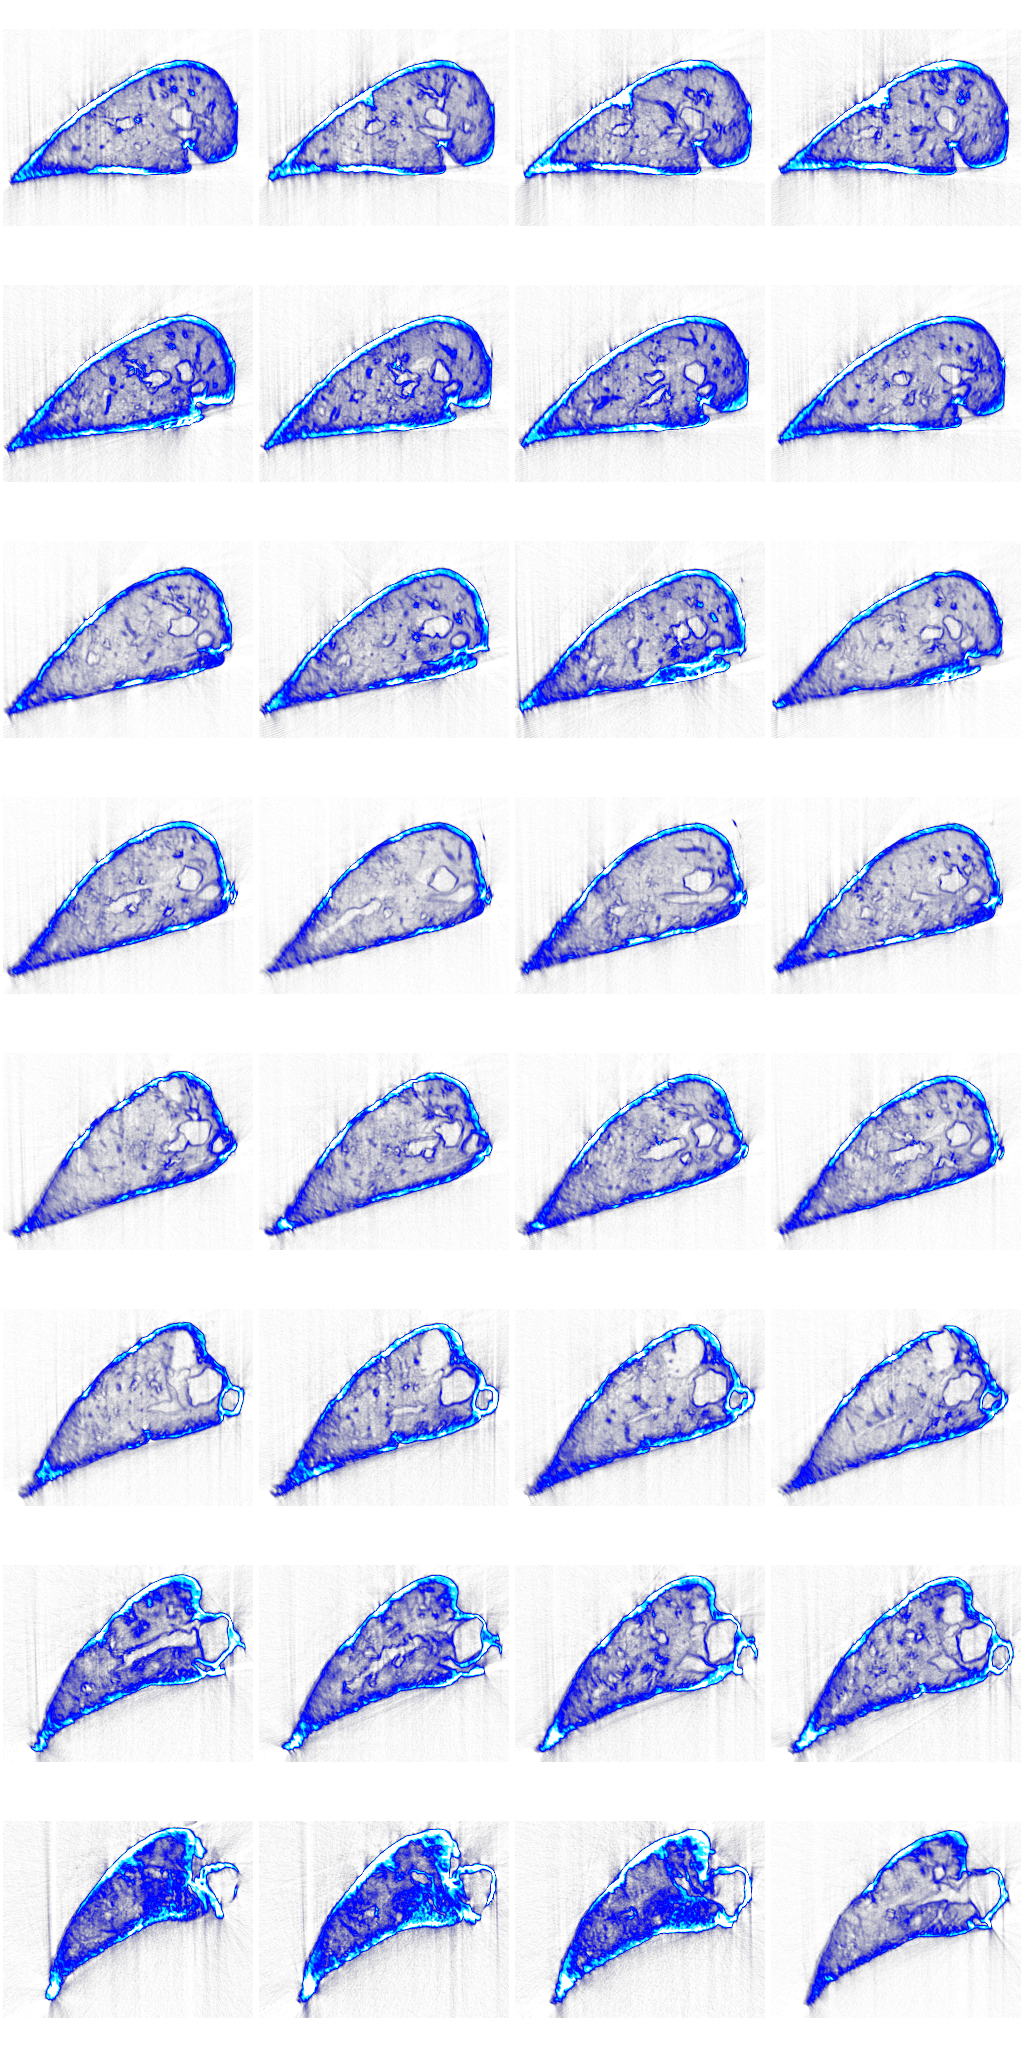
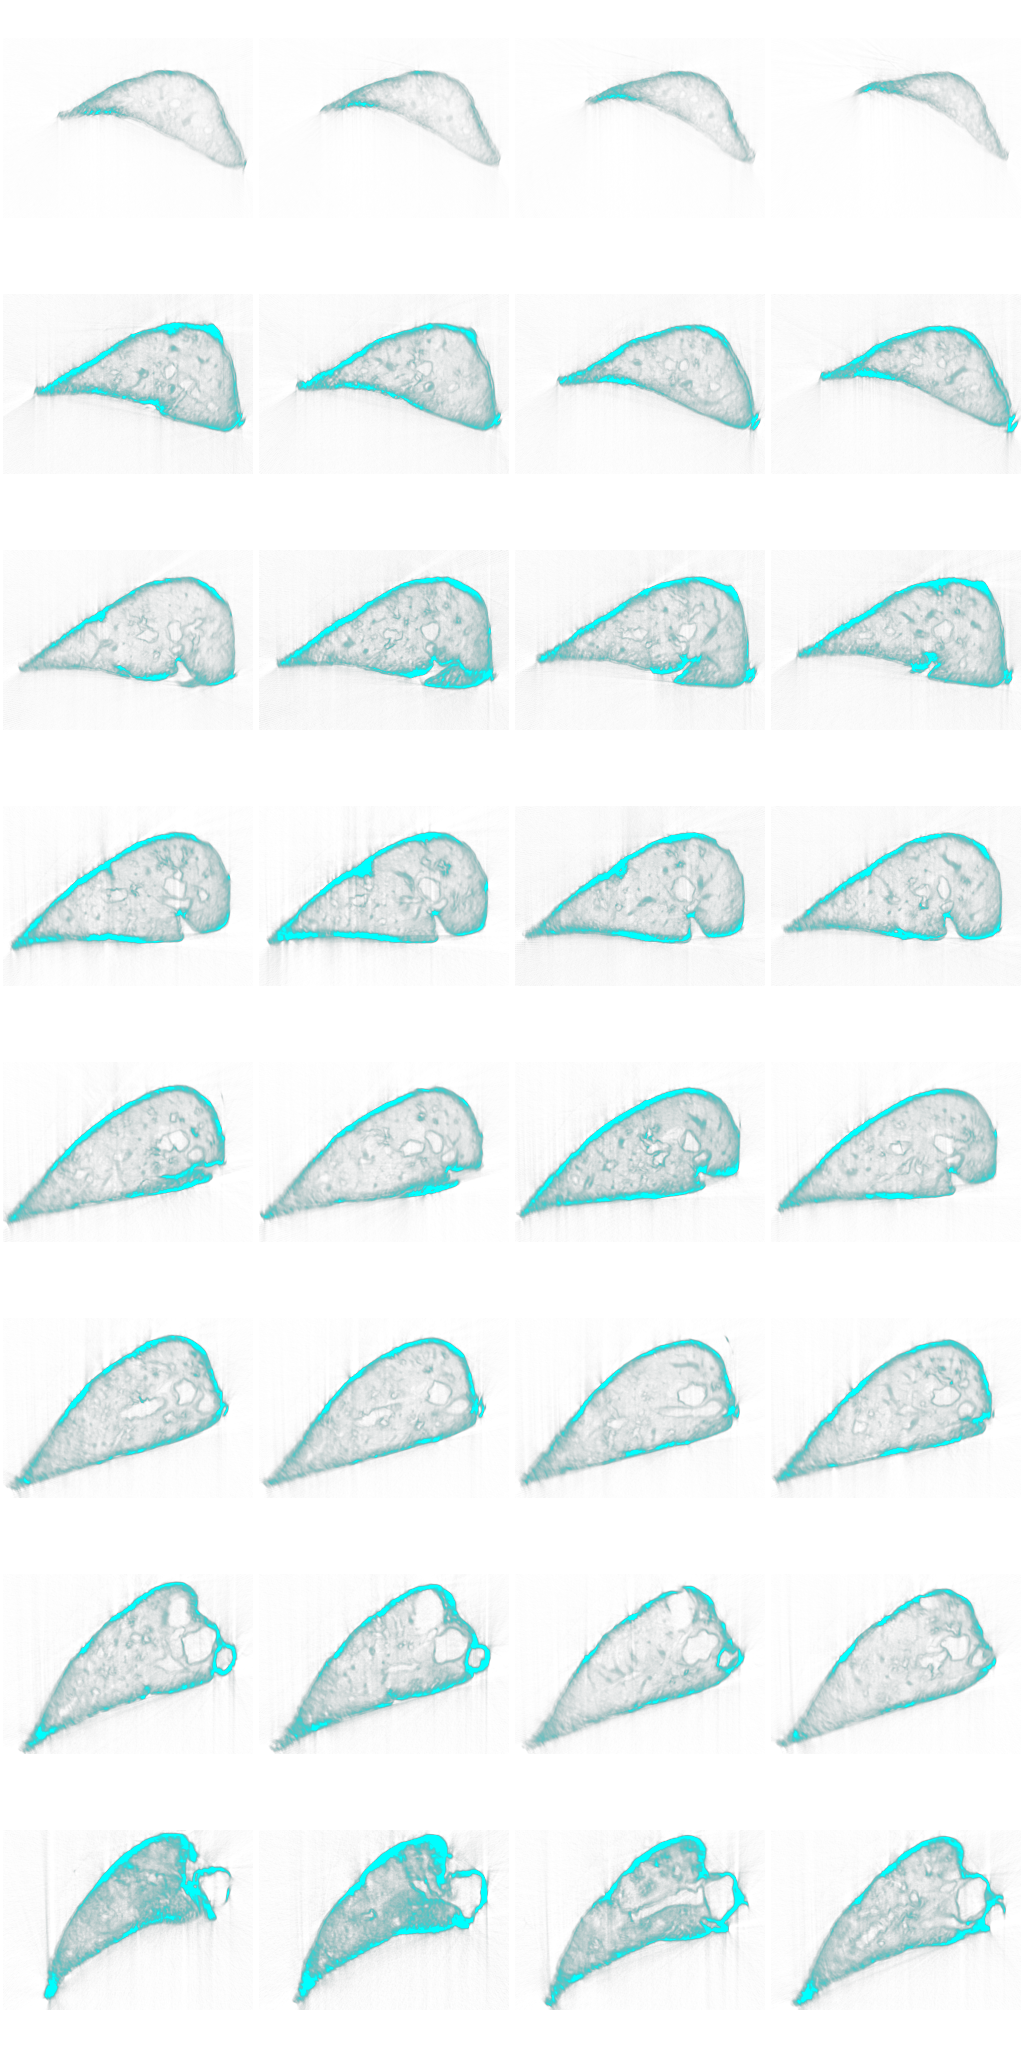
Updated large left, added right middle crop

diff --git a/lungs/right-middle-cropped/index.html b/lungs/right-middle-cropped/index.html
@@ -1,0 +1,47 @@
+<!DOCTYPE html>
+<html>
+  <head>
+    <title>right-middle-cropped - FPBioimage Viewer</title>
+    <meta charset="utf-8">
+    <meta http-equiv="Content-Type" content="text/html; charset=utf-8">
+
+    <!-- EDIT THIS JAVASCRIPT! -->
+    <script type='text/javascript'>
+      fpb = {
+        pathToImages: "./", // This is the path relative to this webpage
+        uniqueName: "right-middle-cropped", // Give this image stack a unique name for bookmarking to work correctly
+        imagePrefix: "right-middle-cropped_z", // The prefix of the image stack file names
+        numberingFormat: "0000", // eg. "000" for 000, 001, 002, 003 etc.
+        fileType: "png", // png or jpg
+        atlasMode: "true", // True if providing pre-built texture atlases. Needs to be a string.
+        voxelSize: {x: 12.9, y: 22.446, z: 12.9}, // This just needs to be a ratio of x:y:z voxel size
+        numberOfImages: 74, // Number of images in the stack
+        sliceWidth: 410, sliceHeight: 500, // The width and height of the image slices (before padding)
+        imageAlpha: "false", // True for exports from Icy for nice alpha blending
+        opacity: 6.57, // Optional rendering parameter
+        intensity: 1.43, // Optional rendering parameter
+        threshold: 0.15, // Optional rendering parameter
+        projection: 2	// Volume renderer for RGBA (0 for max intensity, 1 for RGB)
+      }
+    </script>
+    <!-- END OF REQUIRED EDITS -->
+
+    <meta name="viewport" content="width=device-width, initial-scale=1">
+    <link rel="stylesheet" href="https://fonts.googleapis.com/css?family=Roboto">
+    <style>
+      html,body,h1,h2,h3,h4,h5 {font-family: "Roboto", sans-serif}
+      body {overflow: hidden;}     
+      * {margin: 0; padding:0;}
+      #fpbDiv {width:100%; height:100%; position: absolute;}
+      #fpbDiv canvas {width: 100%; height:100%;}
+    </style>
+  </head>
+  <body>
+
+    <script type="text/javascript" src="https://fpb.ceb.cam.ac.uk/4/FPProgress.js"></script>
+
+    <!-- Put the WebGL Canvas in here-->
+    <div id="fpbDiv"></div>
+
+  </body>
+</html>

diff --git a/lungs/large-left-500/index.html b/lungs/large-left-500/index.html
@@ -14,9 +14,9 @@
         numberingFormat: "0000", // eg. "000" for 000, 001, 002, 003 etc.
         fileType: "png", // png or jpg
         atlasMode: "true", // True if providing pre-built texture atlases. Needs to be a string.
-        voxelSize: {x: 1.1340000000000001, y: 1.134517766497462, z: 1.0}, // This just needs to be a ratio of x:y:z voxel size
-        numberOfImages: 450, // Number of images in the stack
-        sliceWidth: 500, sliceHeight: 394, // The width and height of the image slices (before padding)
+        voxelSize: {x: 1.174, y: 1.175, z: 1.6}, // This just needs to be a ratio of x:y:z voxel size
+        numberOfImages: 500, // Number of images in the stack
+        sliceWidth: 500, sliceHeight: 360, // The width and height of the image slices (before padding)
         imageAlpha: "false", // True for exports from Icy for nice alpha blending
         opacity: 3.0, // Optional rendering parameter
         intensity: 1.0, // Optional rendering parameter

diff --git a/lungs/large-left-250/index.html b/lungs/large-left-250/index.html
@@ -14,9 +14,9 @@
         numberingFormat: "0000", // eg. "000" for 000, 001, 002, 003 etc.
         fileType: "png", // png or jpg
         atlasMode: "true", // True if providing pre-built texture atlases. Needs to be a string.
-        voxelSize: {x: 2.2680000000000002, y: 2.269035532994924, z: 1.8}, // This just needs to be a ratio of x:y:z voxel size
+        voxelSize: {x: 2.348, y: 2.35, z: 3.2}, // This just needs to be a ratio of x:y:z voxel size
         numberOfImages: 250, // Number of images in the stack
-        sliceWidth: 250, sliceHeight: 197, // The width and height of the image slices (before padding)
+        sliceWidth: 250, sliceHeight: 180, // The width and height of the image slices (before padding)
         imageAlpha: "false", // True for exports from Icy for nice alpha blending
         opacity: 3.0, // Optional rendering parameter
         intensity: 1.0, // Optional rendering parameter

diff --git a/README.md b/README.md
@@ -12,10 +12,11 @@ Documentation for OptiJ can be found in the following repository: [OptiJ documen
 The latest stable version of the source code (for further development or patches) can be found in: [OptiJ source code](https://github.com/Josephzammit90/2D_Reconstruction_patched)
 
 ### Sample data
-5 individual lobes from adult murine lungs were extracted, dehydrated, stained, and cleared for OPT. Visualizations of the reconstructed data can be found in the following links. The open-source package FPBioimage (Fantham & Kaminski, Nature Photonics 2017) was used to render and share the reconstructed data.
+5 individual lobes from adult murine lungs were extracted, dehydrated, stained, and cleared for OPT. Visualizations of the reconstructed data can be found in the following links. The open-source package FPBioimage ([Fantham & Kaminski, Nature Photonics 2017](https://www.nature.com/articles/nphoton.2016.273)) was used to render and share the reconstructed data.
 
 1. [Autofluorescent lobe](lungs/autofluorescent-250/)
 2. [Right middle lobe](lungs/right-middle-250/)
+2. [Right middle lobe cropped](lungs/right-middle-cropped/)
 3. [Accessory lobe](lungs/accesory-250/)
 4. [Left lobe](lungs/large-left-250/)
 5. [Right upper lobe](lungs/right-upper-250/)
